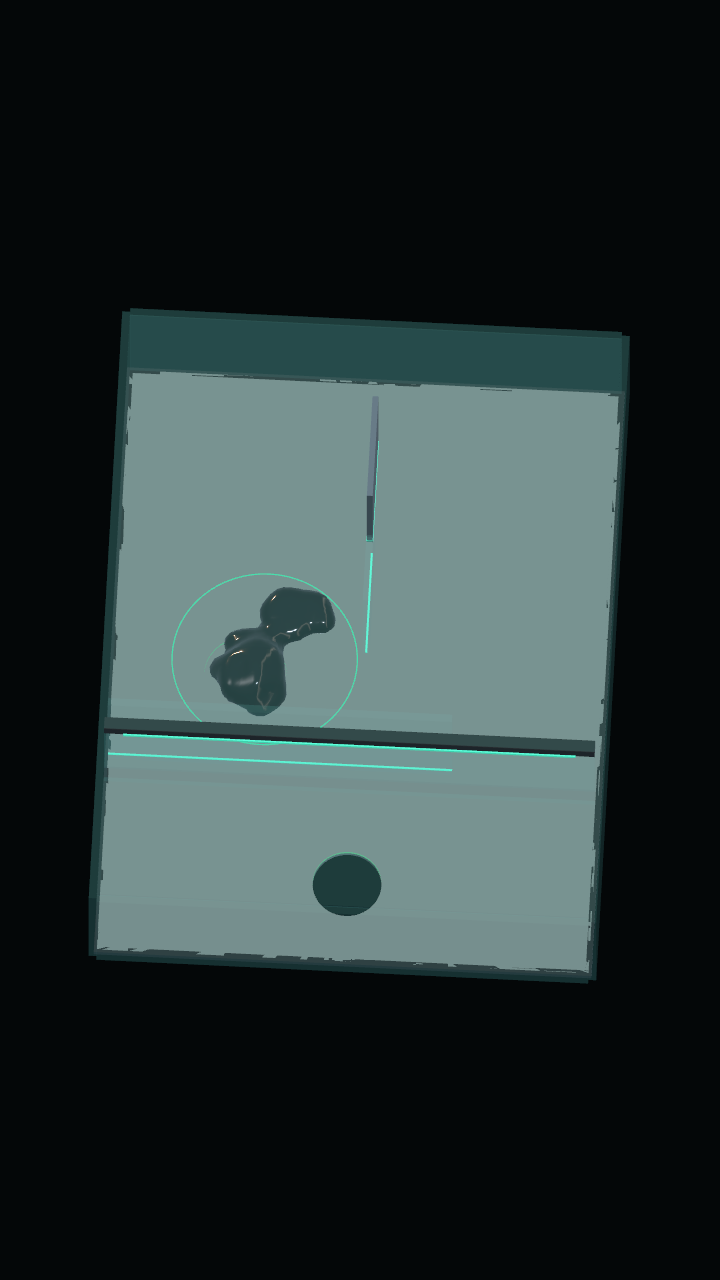
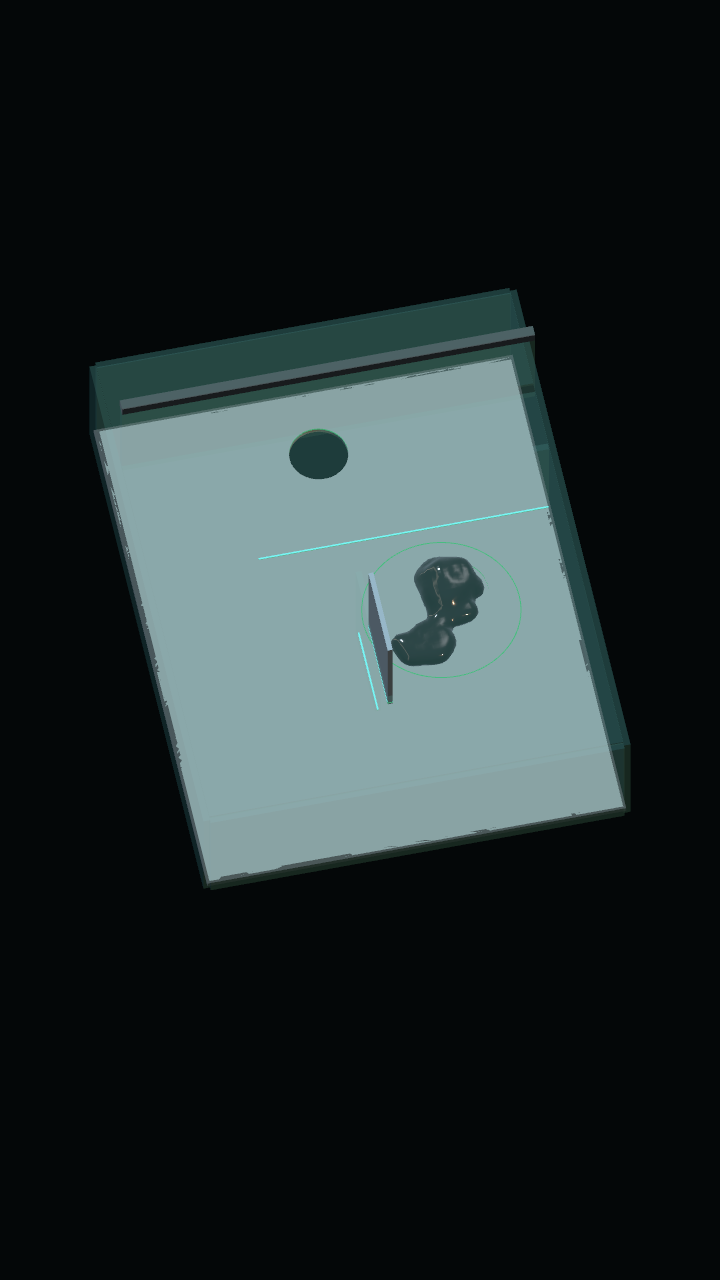
Frame each Venom control mode with a dedicated camera angle

Changed region(s): [[0.1222, 0.2188, 0.8861, 0.7812]]

diff --git a/Assets/_Game/Venom/Runtime/VenomCameraFraming.cs b/Assets/_Game/Venom/Runtime/VenomCameraFraming.cs
@@ -1,0 +1,62 @@
+using UnityEngine;
+
+namespace GravityBox.Venom
+{
+    /// <summary>Stable overview cameras for the two direct-control experiments.</summary>
+    public static class VenomCameraFraming
+    {
+        // 02: read/select both pieces like a tabletop puzzle.
+        // 03: look from the spawn end toward the outlet; raised gates move
+        // away from the approaching body in screen space instead of covering it.
+        // Keep a fixed heading so input directions never drift during a hold.
+        public static Quaternion Orientation(VenomControlMode mode) =>
+            mode == VenomControlMode.SelectFragment ? Quaternion.Euler(88,0,0) : Quaternion.Euler(58,192,0);
+
+        public static void Frame(VenomLevelController level, int width, int height)
+        {
+            if (!level.DirectControl || width <= 0 || height <= 0) return;
+            Camera camera = level.View;
+            camera.orthographic = true;
+            camera.transform.rotation = Orientation(level.ControlMode);
+            float scale = width/540f;
+            float bottom = 282*scale, top = height-205*scale;
+            float available = Mathf.Max(80*scale,top-bottom);
+            Vector3 right = camera.transform.right, up = camera.transform.up;
+            float minX = float.PositiveInfinity, minY = minX, maxX = float.NegativeInfinity, maxY = maxX;
+            void Include(Vector3 local)
+            {
+                Vector3 p = level.Rotation.transform.TransformVector(local);
+                float x = Vector3.Dot(p,right), y = Vector3.Dot(p,up);
+                minX = Mathf.Min(minX,x); maxX = Mathf.Max(maxX,x);
+                minY = Mathf.Min(minY,y); maxY = Mathf.Max(maxY,y);
+            }
+            // Fit the chamber plus the actual high points of raised mechanisms,
+            // rather than padding the entire roof up to the height of the blade.
+            // Fixed bounds avoid zooming whenever the blade/gate moves.
+            for (int x=-1;x<=1;x+=2) for (int y=0;y<=1;y++) for (int z=-1;z<=1;z+=2)
+                Include(new Vector3(x*.262f,y==0?-.076f:.078f,z*.33f));
+            for (int x=-1;x<=1;x+=2) for (int z=-1;z<=1;z+=2)
+            {
+                Include(level.BladeRest+new Vector3(x*.008f,.126f,z*.059f));
+                Include(level.GateRest+new Vector3(x*.254f,.215f,z*.01f));
+            }
+            const float margin = .012f;
+            float size = Mathf.Max(((maxY-minY)*.5f+margin)*height/available,
+                ((maxX-minX)*.5f+margin)*height/(width*.92f));
+            Vector3 centre = level.Rotation.transform.position+right*((minX+maxX)*.5f)+up*((minY+maxY)*.5f);
+            camera.orthographicSize = size;
+            camera.transform.position = centre-camera.transform.forward*1.3f-up*(((bottom+top)/height-1f)*size);
+        }
+
+        public static Vector3 ScreenToFloor(Camera camera, Vector2 direction)
+        {
+            Vector3 right = Vector3.ProjectOnPlane(camera.transform.right,Vector3.up).normalized;
+            Vector3 forward = Vector3.Cross(right,Vector3.up).normalized;
+            // Undo the foreshortening of the floor at an oblique angle. Preserve
+            // joystick strength: diagonal gestures change heading, not top speed.
+            float verticalScale = Mathf.Max(.1f,Vector3.Dot(camera.transform.up,forward));
+            Vector3 projected = right*direction.x+forward*(direction.y/verticalScale);
+            return projected.sqrMagnitude > 0 ? projected.normalized*Mathf.Clamp01(direction.magnitude) : Vector3.zero;
+        }
+    }
+}

diff --git a/Assets/_Game/Editor/VenomPrototypeBuilder.cs b/Assets/_Game/Editor/VenomPrototypeBuilder.cs
@@ -124,8 +124,7 @@ namespace GravityBox.Editor
                 foreach(var child in root.GetComponentsInChildren<Transform>())
                     if(child!=null && (child.name.Contains("flow guide") || child.name.Contains("Reunion"))) Object.DestroyImmediate(child.gameObject);
                 owner.View.orthographicSize=.65f;
-                owner.View.transform.position=new Vector3(.025f,1.1f,-.46f);
-                owner.View.transform.LookAt(new Vector3(0,-.02f,.015f));
+                owner.View.transform.rotation=VenomCameraFraming.Orientation(owner.ControlMode);
                 if(number==3)
                 {
                     // Offset the cutting plane so the player retains a larger
@@ -146,11 +145,27 @@ namespace GravityBox.Editor
                     Block("Detour inlay",root,new Vector3(-.075f,-.064f,-.105f),new Vector3(.35f,.001f,.002f),glow,false);
                     Ring(root,new Vector3(-.115f,-.063f,-.012f),.042f,.001f);
                 }
+                VenomCameraFraming.Frame(owner,540,960);
                 EditorSceneManager.SaveScene(scene,Scenes[number-1]);
             }
             EditorBuildSettings.scenes=Array.ConvertAll(Scenes,path=>new EditorBuildSettingsScene(path,true));
             AssetDatabase.SaveAssets();
             Debug.Log("VENOM CONTROLS GENERATED: select fragments in 02; largest leader and delayed pathfinding in 03.");
+        }
+
+        [MenuItem("Gravity Box/Venom/Update Control Cameras")]
+        public static void UpdateControlCameras()
+        {
+            // Update only camera transforms/settings in the existing authored
+            // scenes. Do not regenerate their puzzle objects or asset identities.
+            for(int number=2;number<=3;number++)
+            {
+                var scene=EditorSceneManager.OpenScene(Scenes[number-1],OpenSceneMode.Single);
+                var owner=Object.FindFirstObjectByType<VenomLevelController>();
+                VenomCameraFraming.Frame(owner,540,960);
+                EditorSceneManager.SaveScene(scene,Scenes[number-1]);
+            }
+            Debug.Log("VENOM CAMERAS UPDATED: 02 overhead 88 degrees; 03 oblique 58 degrees from the spawn end, 12 degrees to its right.");
         }
         private static void Transparent(Material material)
         {

diff --git a/Assets/_Game/Venom/Runtime/VenomHud.cs b/Assets/_Game/Venom/Runtime/VenomHud.cs
@@ -25,25 +25,7 @@ namespace GravityBox.Venom
             if (level != null && level.DirectControl) FrameChamber(Screen.width,Screen.height);
             RefreshSelection();
         }
-        public void FrameChamber(int width, int height)
-        {
-            if (!level.DirectControl) return;
-            float scale = width/540f;
-            float bottom = 282*scale, top = height-205*scale;
-            float available = Mathf.Max(80*scale,top-bottom);
-            Vector3 right = level.View.transform.right, up = level.View.transform.up;
-            float minX = float.PositiveInfinity, minY = minX, maxX = float.NegativeInfinity, maxY = maxX;
-            for (int x=-1;x<=1;x+=2) for (int y=0;y<=1;y++) for (int z=-1;z<=1;z+=2)
-            {
-                Vector3 p = level.Rotation.transform.TransformVector(new Vector3(x*.268f,y==0?-.076f:.181f,z*.33f));
-                float px = Vector3.Dot(p,right), py = Vector3.Dot(p,up);
-                minX = Mathf.Min(minX,px); maxX = Mathf.Max(maxX,px); minY = Mathf.Min(minY,py); maxY = Mathf.Max(maxY,py);
-            }
-            float size = Mathf.Max((maxY-minY)*.5f*height/available,(maxX-minX)*.5f*height/(width*.9f));
-            Vector3 centre = level.Rotation.transform.position+right*((minX+maxX)*.5f)+up*((minY+maxY)*.5f);
-            level.View.orthographicSize = size;
-            level.View.transform.position = centre-level.View.transform.forward*1.3f-up*(((bottom+top)/height-1f)*size);
-        }
+        public void FrameChamber(int width, int height) => VenomCameraFraming.Frame(level,width,height);
         public void RefreshSelection()
         {
             if (selection == null) return;

diff --git a/Assets/_Game/Venom/Runtime/VenomInput.cs b/Assets/_Game/Venom/Runtime/VenomInput.cs
@@ -88,9 +88,7 @@ namespace GravityBox.Venom
         }
         private Vector3 ScreenDirection(Vector2 direction)
         {
-            Vector3 right = Vector3.ProjectOnPlane(level.View.transform.right,Vector3.up).normalized;
-            Vector3 forward = Vector3.Cross(right,Vector3.up).normalized;
-            return right*direction.x+forward*direction.y;
+            return VenomCameraFraming.ScreenToFloor(level.View,direction);
         }
         private void End()
         {

diff --git a/README.md b/README.md
@@ -14,6 +14,8 @@ Nhánh **`Venom`** có ba màn thử nghiệm điều khiển sinh vật mềm. 
 - Build lại: `bash Tools/build-venom.sh` (đóng Unity đang mở project trước). Build macOS có cả ba màn; chưa xuất APK cho biến thể Venom.
 - [Thiết kế màn 01](Docs/VENOM_PROTOTYPE_01.md) · [Điều khiển, navigation và kiến trúc màn 02–03](Docs/VENOM_CONTROLS_02_03.md).
 
+Camera màn 02 nhìn gần thẳng từ trên xuống (**88°**) để dễ chọn hai phần/căn công tắc; màn 03 nhìn chéo từ đầu xuất phát (**58°, lệch 12°**) để thấy rõ chuyển động thân và phần đi theo. Cả hộp nằm trong khung hình; giữ–kéo được căn theo hướng nhìn mới.
+
 Sinh vật dùng hạt vật lý liên kết nhớt/dẻo và bề mặt metaball liên tục. Đây là mô hình vật chất mềm phục vụ thử gameplay, chưa phải solver chất lỏng bảo toàn thể tích. Nội dung 23 bàn bi thép bên dưới vẫn có thể mở qua scene `Gameplay.unity`; build Venom dùng scene riêng.
 
 Sinh vật có animation theo hướng symbiote: thân dồn và cuộn lệch, mô phía trên có độ trễ khi trượt, thỉnh thoảng dựng một đỉnh mềm để thăm dò. Các sợi bám mọc độc lập và căng mảnh rồi thu lại. Animation đọc vận tốc, tiếp xúc thật và ý định bò ở màn 02/03. Lực bám–kéo do hệ locomotion riêng tạo ở các hạt có tiếp xúc; mesh/xúc tua chỉ biểu diễn hình ảnh, không thay đổi lượng vật chất cần thoát. [Tư liệu và cách áp dụng](Docs/VENOM_MOTION_STUDY.md) · [Ảnh/animation cận cảnh](Docs/Images/VenomLife/README.md).

diff --git a/Docs/Images/VenomControls/README.md b/Docs/Images/VenomControls/README.md
@@ -1,6 +1,6 @@
 # Venom 02–03 — Ảnh từ mô phỏng Unity
 
-Ảnh được render bằng camera scene trong `VenomControlTests`, Unity 6000.3.19f1, graphics enabled. Đường giải điều khiển sinh vật bằng lực bám–kéo; không đặt vị trí hạt trong lúc giải. Các ảnh camera dưới đây không có HUD native.
+Ảnh được render bằng camera scene trong `VenomControlTests`, Unity 6000.3.19f1, graphics enabled. Đường giải điều khiển sinh vật bằng lực bám–kéo; không đặt vị trí hạt trong lúc giải. Ảnh cập nhật góc camera ngày 10/09/2026: màn 02 nhìn xuống 88°; màn 03 nhìn từ đầu xuất phát, góc cao 58° và lệch phải 12°. Các ảnh camera dưới đây không có HUD native.
 
 ## Màn 02: hai phần cùng giữ công tắc
 
